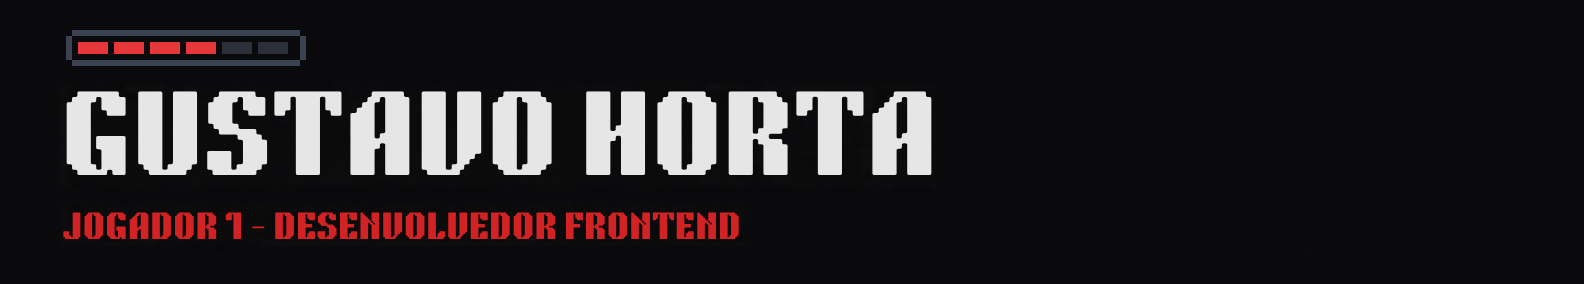
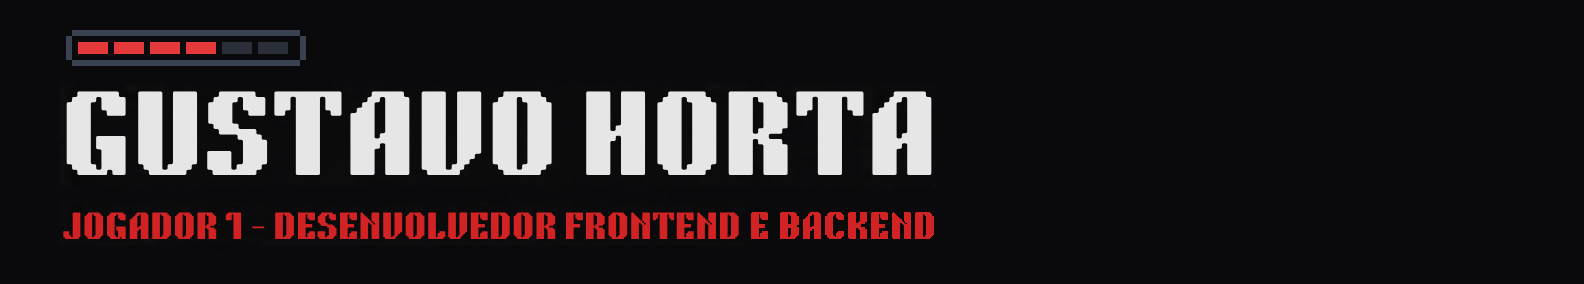
Adiciona sobre mim, projetos, placar e cobrinha ao README
Atualiza o banner para frontend e backend.

Changed region(s): [[0.464, 0.7324, 0.5878, 0.8451]]

diff --git a/README.md b/README.md
@@ -1,12 +1,24 @@
 <img src="assets/banner.png" width="100%" alt="Gustavo Horta. Jogador 1, desenvolvedor frontend e backend." />
 
-Gosto de interface limpa, código organizado e de passar uma fase por vez.
+<img src="https://readme-typing-svg.demolab.com?font=Press+Start+2P&size=14&duration=3000&pause=1200&color=D12323&width=700&lines=Pressione+START+para+conhecer+meus+projetos;Frontend+e+backend%2C+uma+fase+por+vez" alt="Pressione START para conhecer meus projetos" />
+
+### Sobre mim
+
+Oi, sou Gustavo Horta, estudante de Análise e Desenvolvimento de Sistemas na Uninassau Fortaleza. Meu curso é focado na aplicação prática da tecnologia.
+
+Gosto de resolver problemas, tirar ideias do papel e transformá-las em algo bonito.
+
+### Missão atual
+
+Desenvolvendo o Controle de Estoque em equipe e subindo de nível em JavaScript.
 
 ### Desbloqueado
 
 ```text
 HTML          ▰▰▰▰▰
 CSS           ▰▰▰▰▰
+Git           ▰▰▰▰▰
+GitHub        ▰▰▰▰▰
 ```
 
 ### Subindo de nível
@@ -14,8 +26,27 @@ CSS           ▰▰▰▰▰
 ```text
 JavaScript    ▰▰▱▱▱
 Python        ▰▰▱▱▱
+SQL           ▰▰▱▱▱
 Node.js       ▰▱▱▱▱
 ```
+
+### Missões
+
+**[Controle de Estoque](https://github.com/alanfelipe01/sistema-estoque)** · em andamento · projeto em equipe
+
+Sistema de gestão de inventário com dashboard, entradas e saídas de estoque e cadastro de produtos, fornecedores e usuários.
+
+### Placar
+
+<img src="https://github-readme-stats.vercel.app/api/top-langs/?username=Hortafront&layout=compact&hide_border=true&bg_color=0A0A0C&title_color=D12323&text_color=E6E6E6&custom_title=Linguagens+mais+usadas" height="165" alt="Linguagens mais usadas" />&nbsp;&nbsp;<img src="https://streak-stats.demolab.com?user=Hortafront&hide_border=true&background=0A0A0C&ring=D12323&fire=D12323&currStreakLabel=D12323&currStreakNum=E6E6E6&sideNums=E6E6E6&sideLabels=E6E6E6&dates=8A8F98&locale=pt_BR" height="165" alt="Sequência de contribuições" />
+
+### Fase bônus
+
+<picture>
+  <source media="(prefers-color-scheme: dark)" srcset="https://raw.githubusercontent.com/Hortafront/Hortafront/output/github-contribution-grid-snake-dark.svg" />
+  <source media="(prefers-color-scheme: light)" srcset="https://raw.githubusercontent.com/Hortafront/Hortafront/output/github-contribution-grid-snake.svg" />
+  <img src="https://raw.githubusercontent.com/Hortafront/Hortafront/output/github-contribution-grid-snake.svg" width="100%" alt="Cobrinha comendo as contribuições do GitHub" />
+</picture>
 
 ### Multiplayer
 
